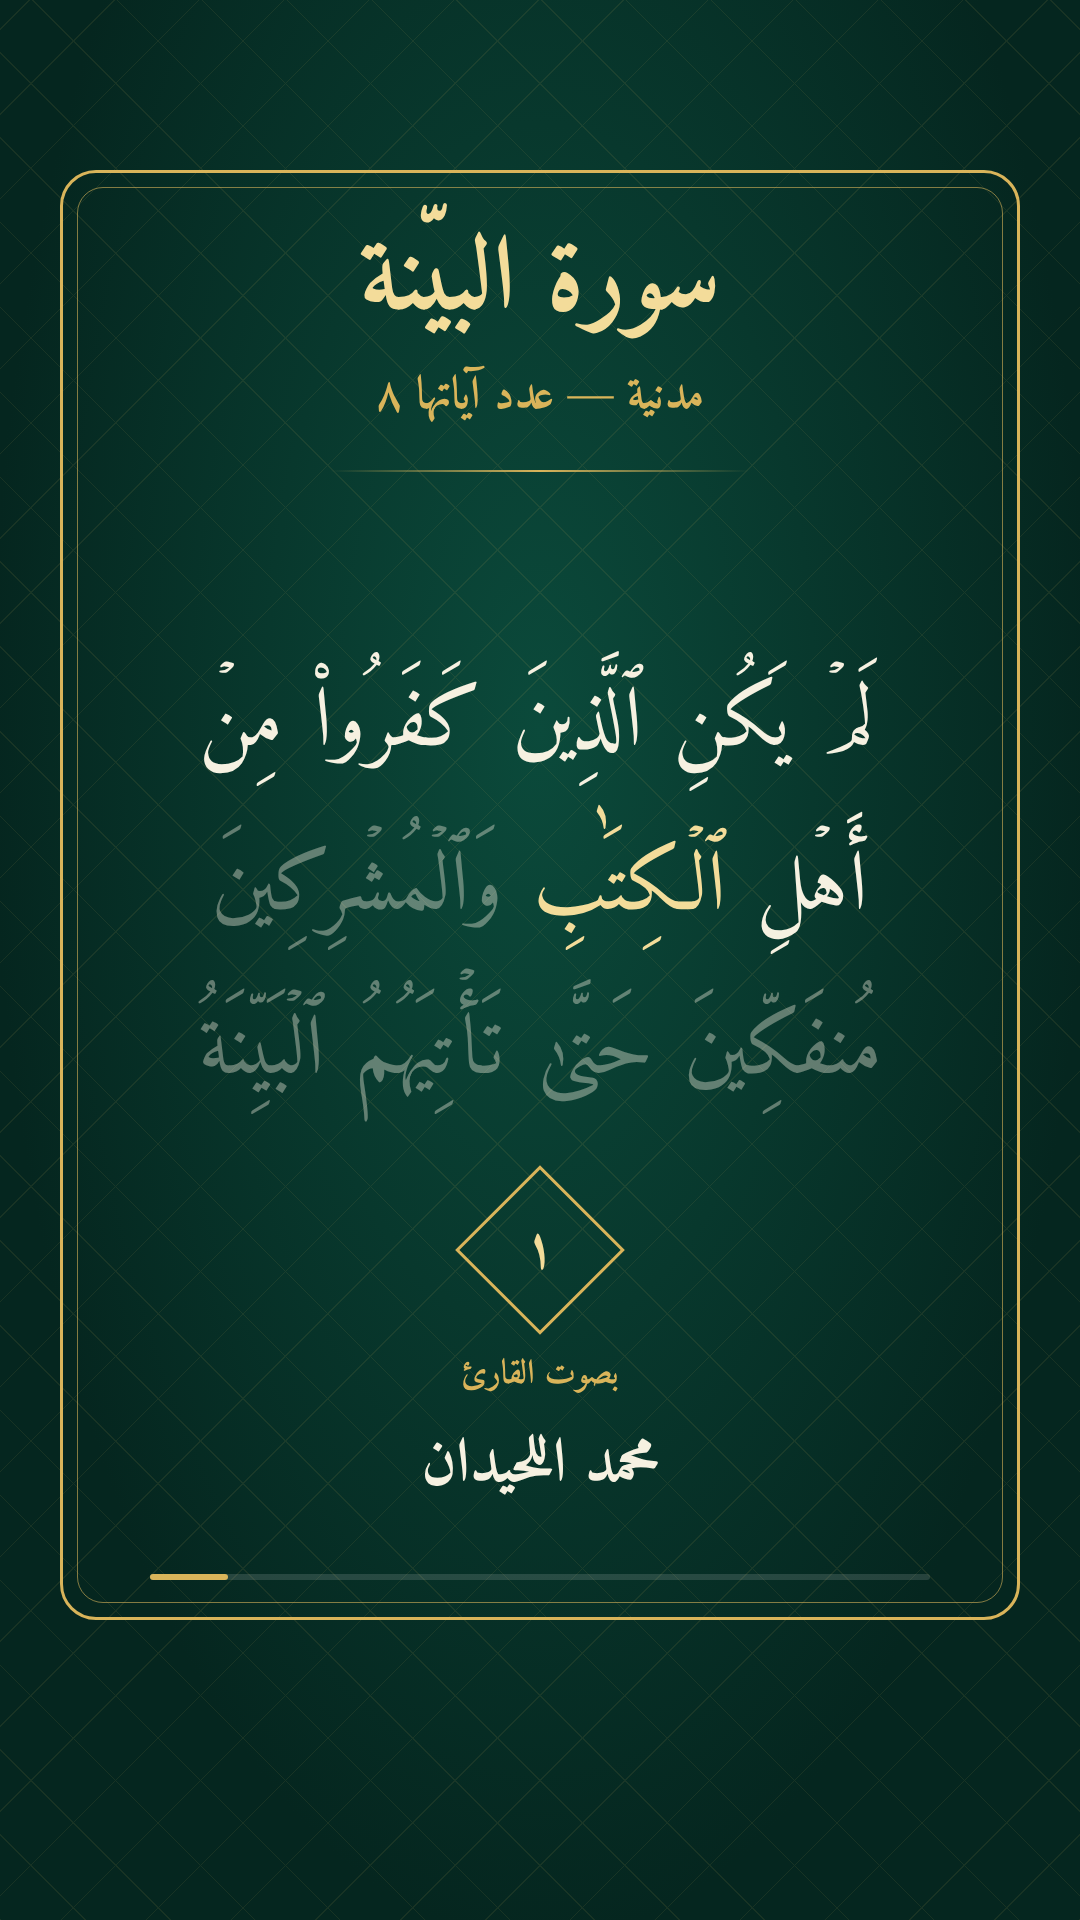
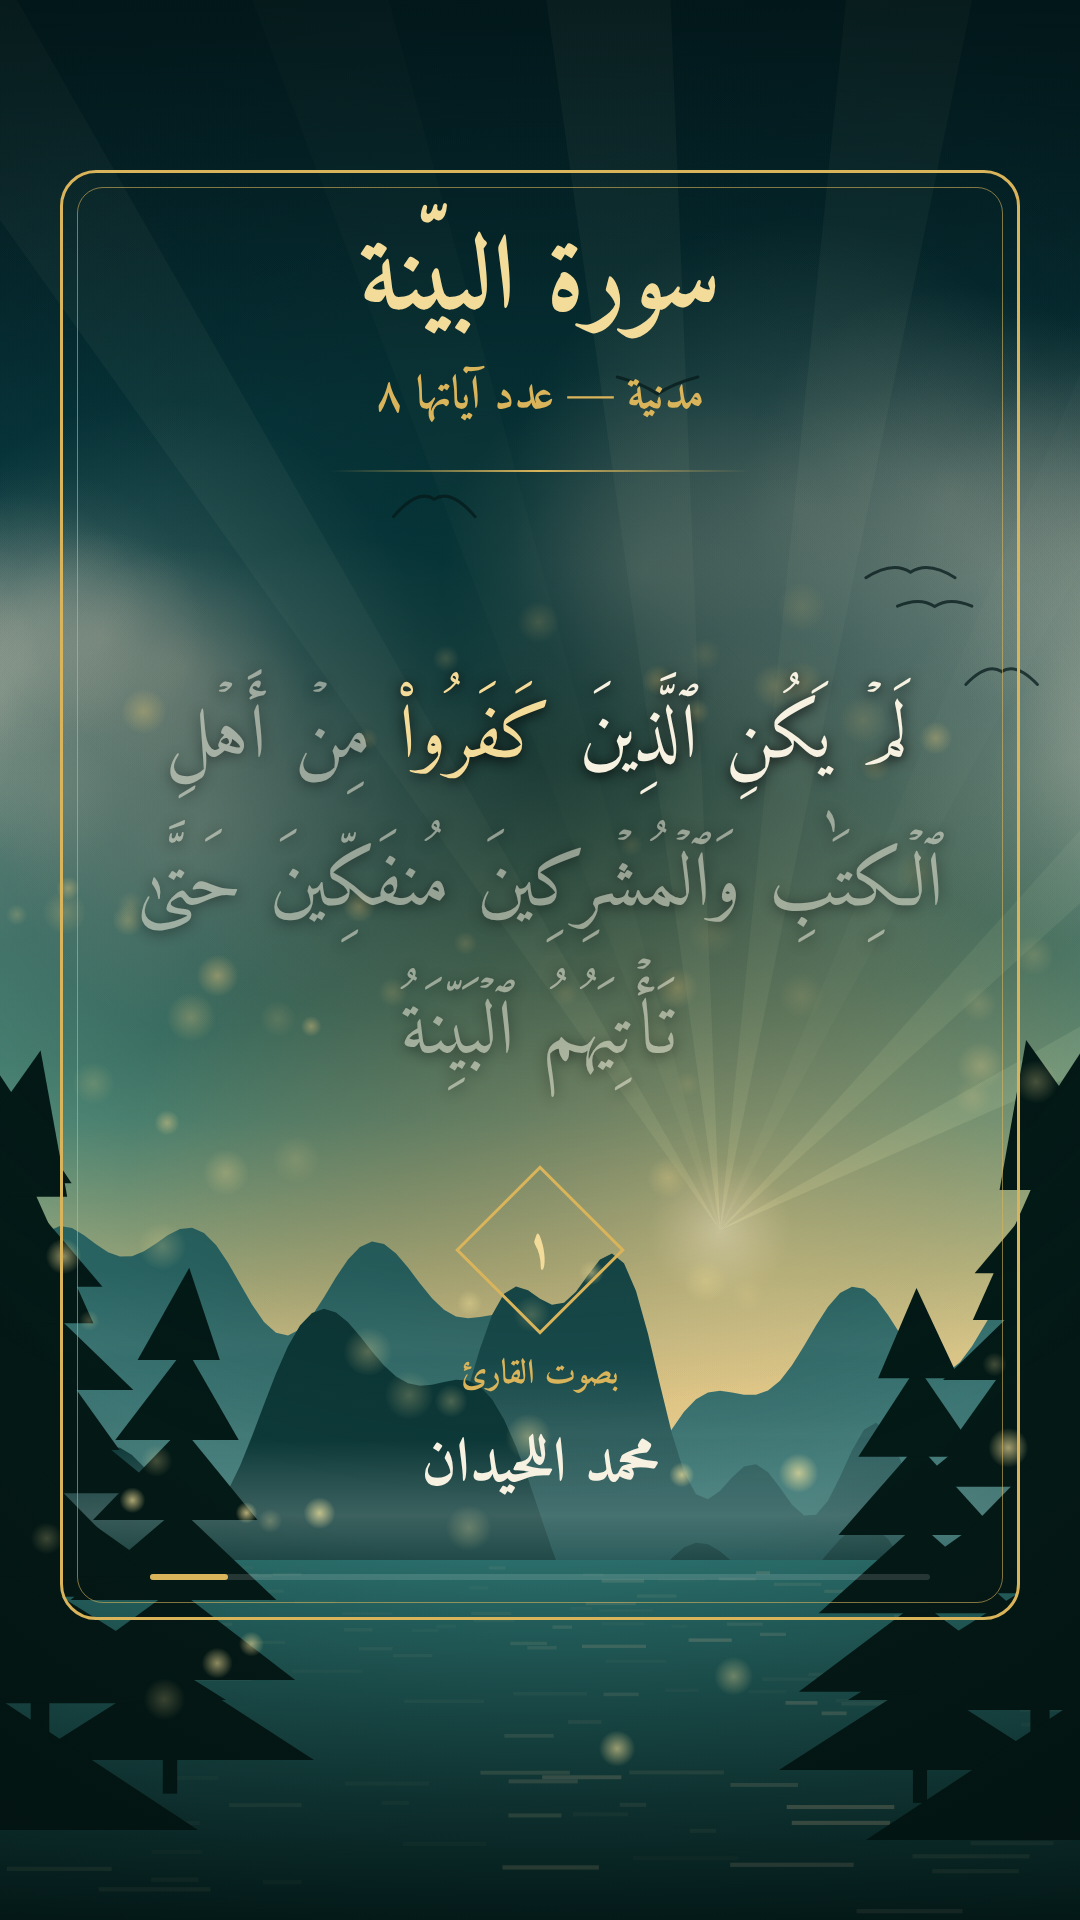
Surah Al-Bayyinah video: animated nature background, per-word timing, basmala
Claude-Session: https://claude.ai/code/session_018nkkgVh1zoVbZKXc2uWzRm

diff --git a/bayyinah-luhaidan/design.html b/bayyinah-luhaidan/design.html
@@ -4,10 +4,9 @@
 @font-face{font-family:T;src:url(fonts/amiri-arabic-700-normal.woff2);font-weight:700}
 :root{--bg1:#05261f;--bg2:#0b4a3b;--gold:#d9b45a;--gold2:#f3dc9a;--ink:#f6f1e1}
 *{margin:0;box-sizing:border-box}
-body{width:1080px;height:1920px;overflow:hidden;background:radial-gradient(ellipse at 50% 38%,var(--bg2),var(--bg1) 72%);font-family:T;color:var(--ink);position:relative}
-.pat{position:absolute;inset:0;opacity:.09;background:
- repeating-linear-gradient(45deg,var(--gold) 0 1px,transparent 1px 60px),
- repeating-linear-gradient(-45deg,var(--gold) 0 1px,transparent 1px 60px)}
+body{width:1080px;height:1920px;overflow:hidden;background:var(--bg1);font-family:T;color:var(--ink);position:relative}
+#bg{position:absolute;inset:0}
+.scrim{position:absolute;inset:0;background:radial-gradient(ellipse 90% 30% at 50% 40%,rgba(2,22,18,.78),rgba(2,22,18,0) 100%),linear-gradient(rgba(2,22,18,.45),rgba(2,22,18,0) 30%)}
 .frame{position:absolute;left:60px;right:60px;top:170px;bottom:300px;border:3px solid var(--gold);border-radius:36px}
 .frame:after{content:"";position:absolute;inset:14px;border:1px solid var(--gold);border-radius:26px;opacity:.6}
 .title{position:absolute;top:215px;width:100%;text-align:center}
@@ -15,8 +14,8 @@ body{width:1080px;height:1920px;overflow:hidden;background:radial-gradient(ellip
 .title i{display:block;font-style:normal;font-size:46px;color:var(--gold);margin-top:6px}
 .rule{position:absolute;top:470px;left:50%;width:420px;margin-left:-210px;height:2px;background:linear-gradient(90deg,transparent,var(--gold),transparent)}
 #v{position:absolute;left:130px;right:130px;top:540px;height:640px;display:flex;align-items:center;justify-content:center;text-align:center;font-family:Q;font-size:84px;line-height:1.95;word-spacing:6px}
-#v span{opacity:.38;transition:none}
-#v span.on{opacity:1;color:var(--gold2)}
+#v span{opacity:.62;text-shadow:0 2px 16px #000,0 0 6px #000}
+#v span.on{opacity:1;color:var(--gold2);text-shadow:0 0 0 #000,0 2px 14px #000}
 #v span.done{opacity:1}
 .num{position:absolute;top:1190px;left:50%;width:120px;height:120px;margin-left:-60px;border:3px solid var(--gold);transform:rotate(45deg);display:flex;align-items:center;justify-content:center}
 .num em{transform:rotate(-45deg);font-style:normal;font-size:54px;color:var(--gold2)}
@@ -25,27 +24,72 @@ body{width:1080px;height:1920px;overflow:hidden;background:radial-gradient(ellip
 .bar{position:absolute;left:150px;right:150px;bottom:340px;height:6px;background:#ffffff22;border-radius:3px;direction:ltr}
 .bar div{height:100%;width:0;background:var(--gold);border-radius:3px}
 </style>
-<div class="pat"></div><div class="frame"></div>
+<canvas id="bg" width="1080" height="1920"></canvas><div class="scrim"></div><div class="frame"></div>
 <div class="title"><b>سورة البيّنة</b><i>مدنية — عدد آياتها ٨</i></div><div class="rule"></div>
 <div id="v"><p id="t"></p></div>
 <div class="num"><em id="n"></em></div>
 <div class="rec"><small>بصوت القارئ</small>محمد اللحيدان</div>
 <div class="bar"><div id="b"></div></div>
 <script>
-let S;
+let S,V;
 const AR=n=>String(n).replace(/\d/g,d=>'٠١٢٣٤٥٦٧٨٩'[d]);
-async function init(){S=await (await fetch('surah98.json')).json();await document.fonts.ready;window.ready=true}
-// ayah index, progress 0..1 inside ayah, total progress 0..1
-function setState(i,p,tot){
-  const w=S.verses[i].split(' ');
-  const wt=w.map(x=>x.replace(/[ً-ٰٟۖ-ۭ]/g,'').length+1);
-  const sum=wt.reduce((a,b)=>a+b,0);let acc=0,h='';
-  w.forEach((x,k)=>{const s=acc/sum;acc+=wt[k];const e=acc/sum;
-    h+=`<span class="${p>=e?'done':p>=s?'on':''}">${x}</span> `});
-  document.getElementById('t').innerHTML=h;
-  const L=S.verses[i].length;document.getElementById('v').style.fontSize=(L<70?84:L<130?76:L<170?68:62)+'px';
-  document.getElementById('n').textContent=AR(i+1);
+async function init(){S=await (await fetch('surah98.json')).json();const b=await (await fetch('basmala.json')).json();
+  V=[b.text,...S.verses];await document.fonts.ready;window.ready=true}
+// i: 0=البسملة، 1..8 الآيات · w: رقم الكلمة الجارية (-1 قبل أول كلمة، 99 بعد آخر كلمة)
+let last=-1;
+function setState(i,w,tot,t){
+  if(i!==last){last=i;const L=V[i].length;
+    document.getElementById('v').style.fontSize=(i===0?84:L<70?84:L<130?76:L<170?68:62)+'px';
+    document.getElementById('t').innerHTML=V[i].split(' ').map(x=>`<span>${x}</span>`).join(' ');
+    document.getElementById('n').textContent=i===0?'۞':AR(i)}
+  document.querySelectorAll('#t span').forEach((el,k)=>{el.className=k===w?'on':k<w?'done':''});
   document.getElementById('b').style.width=(tot*100)+'%';
-}
+  drawBG(t)}
+function R(n){let x=Math.sin(n*127.1+311.7)*43758.5453;return x-Math.floor(x)}
+function drawBG(t){
+  const c=document.getElementById('bg').getContext('2d'),W=1080,Hh=1920;
+  let g=c.createLinearGradient(0,0,0,1400);g.addColorStop(0,'#04202b');g.addColorStop(.45,'#0c5159');g.addColorStop(.8,'#5c9a86');g.addColorStop(1,'#e8c880');
+  c.fillStyle=g;c.fillRect(0,0,W,Hh);
+  // شمس بتوهج يتنفس
+  const sx=720,sy=1230,pr=1+.04*Math.sin(t*.8);
+  g=c.createRadialGradient(sx,sy,0,sx,sy,620*pr);g.addColorStop(0,'rgba(255,240,190,.95)');g.addColorStop(.12,'rgba(255,224,150,.55)');g.addColorStop(1,'rgba(255,200,120,0)');c.fillStyle=g;c.fillRect(0,500,W,1200);
+  // أشعة
+  c.save();c.globalCompositeOperation='lighter';
+  for(let k=0;k<7;k++){const a=-2.2+k*.28+.06*Math.sin(t*.25+k);c.fillStyle=`rgba(255,226,160,${.05+.025*Math.sin(t*.5+k*2)})`;
+    c.beginPath();c.moveTo(sx,sy);c.lineTo(sx+Math.cos(a-.05)*2400,sy+Math.sin(a-.05)*2400);c.lineTo(sx+Math.cos(a+.05)*2400,sy+Math.sin(a+.05)*2400);c.fill()}
+  c.restore();
+  // غيوم
+  for(let k=0;k<8;k++){const sp=8+R(k)*14,x0=R(k+9)*(W+900),cx=((x0+t*sp)%(W+900))-450,cy=180+R(k+3)*620,sc=.7+R(k+5)*1.1;
+    for(let m=0;m<5;m++){const ox=(m-2)*90*sc,oy=Math.sin(m*1.7+k)*26*sc,r=(110+R(k*7+m)*70)*sc;
+      const gg=c.createRadialGradient(cx+ox,cy+oy,0,cx+ox,cy+oy,r);gg.addColorStop(0,`rgba(255,240,215,${.2+.1*R(k)})`);gg.addColorStop(1,'rgba(255,240,215,0)');c.fillStyle=gg;c.fillRect(cx+ox-r,cy+oy-r,2*r,2*r)}}
+  // طيور
+  c.strokeStyle='rgba(10,30,32,.75)';c.lineWidth=3;c.lineCap='round';
+  for(let k=0;k<6;k++){const bx=((R(k+40)*1400+t*(55+R(k)*25))%1500)-200,by=300+R(k+60)*420+Math.sin(t*.9+k)*30,fl=Math.sin(t*7+k*2)*14,sz=.8+R(k+2)*.7;
+    c.beginPath();c.moveTo(bx-30*sz,by-fl*sz);c.quadraticCurveTo(bx-12*sz,by-8*sz,bx,by);c.quadraticCurveTo(bx+12*sz,by-8*sz,bx+30*sz,by-fl*sz);c.stroke()}
+  // جبال بثلاث طبقات + ضباب
+  const lay=[[1330,170,'#2d6b6a',.0035,.18],[1420,210,'#1b4f50',.0045,.30],[1500,230,'#0e3a3a',.0030,.5]];
+  lay.forEach(([y0,amp,col,f,mist],li)=>{
+    c.fillStyle=col;c.beginPath();c.moveTo(0,1920);
+    for(let x=0;x<=W;x+=12){const h=amp*(.5*Math.sin(x*f*2+li*3)+.3*Math.sin(x*f*5+li)+.2*Math.sin(x*f*11+li*2));c.lineTo(x,y0-h)}
+    c.lineTo(W,1920);c.fill();
+    const mg=c.createLinearGradient(0,y0-60,0,y0+90);mg.addColorStop(0,'rgba(220,235,225,0)');mg.addColorStop(.5,`rgba(220,235,225,${mist*.45})`);mg.addColorStop(1,'rgba(220,235,225,0)');
+    c.fillStyle=mg;const dx=(t*(6+li*4))%W;c.fillRect(0,y0-60,W,150)});
+  // بحيرة
+  const ly=1560;g=c.createLinearGradient(0,ly,0,1920);g.addColorStop(0,'#2a6d6a');g.addColorStop(1,'#04201f');c.fillStyle=g;c.fillRect(0,ly,W,Hh-ly);
+  for(let k=0;k<120;k++){const y=ly+6+Math.pow(R(k+100),1.6)*(Hh-ly-10),amp=.3+.7*(y-ly)/(Hh-ly),
+      x=(R(k+200)*W+Math.sin(t*.6+k)*30)%W,wd=(30+R(k+300)*110)*amp,near=Math.max(0,1-Math.abs(x-sx)/260);
+    c.fillStyle=`rgba(255,${225-near*20|0},${170},${(.06+.35*near)*(.5+.5*Math.sin(t*2.2+k*1.3))*amp+.03})`;c.fillRect(x-wd/2,y,wd,2.5+amp*2)}
+  // أشجار صنوبر على الجانبين تتمايل
+  function pine(x,y,h,ph){const sw=Math.sin(t*.9+ph)*h*.018;c.fillStyle='#041a17';
+    for(let l=0;l<6;l++){const ly2=y-h*(l/6),wd=h*.30*(1-l/7),off=sw*(l/6)*3;
+      c.beginPath();c.moveTo(x+off-wd,ly2);c.lineTo(x+off+sw*(l+1)/2,ly2-h/5.2);c.lineTo(x+off+wd,ly2);c.fill()}
+    c.fillRect(x-h*.015,y,h*.03,h*.07)}
+  [[40,1700,620,0],[170,1760,480,1.3],[-30,1830,760,2.1],[1040,1700,640,3.2],[920,1770,470,4.1],[1100,1840,780,5.3]].forEach(a=>pine(...a));
+  // يراعات / لقاح
+  for(let k=0;k<70;k++){const px=(R(k+500)*W+Math.sin(t*.35+k*3)*60+t*(2+R(k)*5))%W,py=700+R(k+600)*1100+Math.cos(t*.3+k*2)*40-((t*(5+R(k+1)*8))%200),
+      a=.25+.55*Math.max(0,Math.sin(t*1.4+k*2.1)),r=2+R(k+700)*3;
+    const gg=c.createRadialGradient(px,py,0,px,py,r*5);gg.addColorStop(0,`rgba(255,235,160,${a})`);gg.addColorStop(1,'rgba(255,235,160,0)');c.fillStyle=gg;c.fillRect(px-r*5,py-r*5,r*10,r*10)}
+  // تعتيم خفيف للأطراف
+  g=c.createRadialGradient(540,960,600,540,960,1300);g.addColorStop(0,'rgba(0,0,0,0)');g.addColorStop(1,'rgba(0,10,8,.45)');c.fillStyle=g;c.fillRect(0,0,W,Hh)}
 init();
 </script></html>

diff --git a/bayyinah-luhaidan/align.py b/bayyinah-luhaidan/align.py
@@ -1,0 +1,53 @@
+#!/usr/bin/env python3
+"""align.py audio.mp3  -> words.json  (توقيت كل كلمة من غلاف الطاقة الصوتية + أوزان مقاطع الكلمات)
+المدخل: timings.json = {"basmala":[s,e],"ayahs":[[s,e]x8]}  (حدود تقريبية للأقسام)"""
+import sys,json,re,subprocess,wave,tempfile,os,numpy as np
+audio=sys.argv[1];T=json.load(open('timings.json'))
+wav=tempfile.mktemp(suffix='.wav');subprocess.run(['ffmpeg','-v','error','-y','-i',audio,'-ac','1','-ar','8000',wav],check=True)
+w=wave.open(wav);x=np.frombuffer(w.readframes(w.getnframes()),dtype=np.int16).astype(float);sr=8000;os.remove(wav)
+H=.01;hop=int(H*sr)
+e=20*np.log10(np.sqrt([np.mean(x[i:i+hop*2]**2) for i in range(0,len(x)-hop*2,hop)])+1)
+e=np.convolve(e,np.ones(5)/5,'same')
+S=json.load(open('surah98.json'));B=json.load(open('basmala.json'))['text']
+def weight(word):
+    syl=len(re.findall('[ً-َُِٰ]',word))                    # حركات (مقاطع)
+    madd=len(re.findall('[َ][اى]|[ُ]و|[ِ]ي|ٰ|[اوي](?=[ءّْ])',word))
+    gem=len(re.findall('ّ',word))
+    return max(1.0,syl+0.7*madd+0.5*gem+0.3*len(re.sub('[ً-ٰٟۖ-ۭ]','',word))*0.5)
+def speech_range(s,end):
+    st=s;thr=66
+    while st<end and e[int(st/H)]<thr and st<s+1.5:st+=H
+    en=end
+    for t in np.arange(end-1.0,end+0.3,H):
+        i=int(t/H)
+        if i+15<len(e) and (e[i:i+15]<thr).all(): en=t;break
+    return st,en
+def split(text,s,end):
+    words=text.split(' ');n=len(words)
+    if n==1:return [[s,end]]
+    st,en=speech_range(s,end);wt=np.array([weight(v) for v in words]);cum=np.cumsum(wt)/wt.sum()
+    exp=st+cum[:-1]*(en-st)
+    lo,hi=int(st/H),int(en/H);seg=e[lo:hi]
+    cand=[j for j in range(3,len(seg)-3) if seg[j]<=seg[j-3:j+4].min()+1e-9]
+    cand=np.array(cand);ct=(lo+cand)*H;depth=np.array([np.median(seg[max(0,j-60):j+60])-seg[j] for j in cand])
+    sig=max(.25,.12*(en-st))
+    def cost(k,c):return ((ct[c]-exp[k])/sig)**2-0.12*depth[c]
+    K=n-1;C=len(cand)
+    if C<K:b=list(exp)
+    else:
+        D=np.full((K,C),1e9);P=np.zeros((K,C),int)
+        for c in range(C):D[0,c]=cost(0,c)
+        for k in range(1,K):
+            best=1e9;bi=-1
+            for c in range(C):
+                # min over previous c' with ct[c']<ct[c]-0.12
+                m=ct<ct[c]-0.12
+                if m.any():
+                    pi=np.argmin(np.where(m,D[k-1],1e9));D[k,c]=D[k-1,pi]+cost(k,c);P[k,c]=pi
+        c=int(np.argmin(D[K-1]));path=[c]
+        for k in range(K-1,0,-1):c=P[k,c];path.append(c)
+        b=[ct[c] for c in reversed(path)]
+    edges=[st]+[float(v) for v in b]+[en]
+    return [[round(edges[i],3),round(edges[i+1],3)] for i in range(n)]
+out={'basmala':split(B,*T['basmala']),'ayahs':[split(S['verses'][i],*T['ayahs'][i]) for i in range(8)]}
+json.dump(out,open('words.json','w'));print('words.json ok',[len(a) for a in out['ayahs']])

diff --git a/bayyinah-luhaidan/make_video.py b/bayyinah-luhaidan/make_video.py
@@ -1,20 +1,13 @@
 #!/usr/bin/env python3
 """python3 make_video.py recitation.mp3 [out.mp4] [--timings t.json]
-timings.json = [[start,end],...] لكل آية (ثوانٍ) — وإلا تُكتشف الفواصل تلقائياً من سكتات التلاوة."""
+يحتاج timings.json وwords.json (python3 align.py recitation.mp3)."""
 import sys,json,re,subprocess,os,tempfile,shutil,http.server,threading,functools
 from playwright.sync_api import sync_playwright
 HERE=os.path.dirname(os.path.abspath(__file__));FPS=24
 a=[x for x in sys.argv[1:] if not x.startswith('--')];audio=a[0];out=a[1] if len(a)>1 else 'bayyinah-luhaidan.mp4'
 dur=float(subprocess.check_output(['ffprobe','-v','error','-show_entries','format=duration','-of','csv=p=0',audio]))
-if '--timings' in sys.argv: T=json.load(open(sys.argv[sys.argv.index('--timings')+1]))
-else:
-    log=subprocess.run(['ffmpeg','-i',audio,'-af','silencedetect=noise=-35dB:d=0.25','-f','null','-'],capture_output=True,text=True).stderr
-    st=[float(x) for x in re.findall(r'silence_start: ([\d.]+)',log)];en=[float(x) for x in re.findall(r'silence_end: ([\d.]+)',log)]
-    gaps=sorted(zip(st,en),key=lambda g:g[1]-g[0],reverse=True)
-    inner=[g for g in gaps if 0.5<g[0]<dur-0.5][:7]
-    if len(inner)<7: sys.exit(f'وجدت {len(inner)} فواصل فقط من 7 — مرّر --timings')
-    cuts=sorted((g[0]+g[1])/2 for g in inner);b=[0]+cuts+[dur];T=[[b[i],b[i+1]] for i in range(8)]
-    json.dump(T,open('timings.json','w'));print('timings.json',T)
+Wd=json.load(open('words.json'));SEG=[Wd['basmala']]+Wd['ayahs']   # 9 مقاطع: البسملة + 8 آيات
+TS=json.load(open('timings.json'));ST=[TS['basmala'][0]]+[x[0] for x in TS['ayahs']]
 fr=tempfile.mkdtemp()
 h=http.server.ThreadingHTTPServer(('127.0.0.1',0),functools.partial(http.server.SimpleHTTPRequestHandler,directory=HERE))
 h.RequestHandlerClass.log_message=lambda *a:None;threading.Thread(target=h.serve_forever,daemon=True).start()
@@ -23,8 +16,14 @@ with sync_playwright() as p:
     pg.goto(f'http://127.0.0.1:{h.server_port}/design.html');pg.wait_for_function('window.ready')
     n=int(dur*FPS)
     for f in range(n):
-        t=f/FPS;i=next((k for k,(s,e) in enumerate(T) if t<e),7);s,e=T[i]
-        pg.evaluate(f'setState({i},{min(1,max(0,(t-s)/(e-s)))},{t/dur})')
+        t=f/FPS;i=0
+        for k in range(9):
+            if t>=ST[k]-0.05:i=k
+        ws=SEG[i];w=-1
+        for k,(s,e) in enumerate(ws):
+            if t>=s:w=k
+        if t>=ws[-1][1]:w=99 if i>=0 and t>ws[-1][1]+0.0 else w
+        pg.evaluate(f'setState({i},{w},{t/dur},{t})')
         pg.screenshot(path=f'{fr}/{f:06d}.jpg',type='jpeg',quality=92)
 subprocess.run(['ffmpeg','-y','-v','error','-framerate',str(FPS),'-i',f'{fr}/%06d.jpg','-i',audio,'-c:v','libx264','-pix_fmt','yuv420p','-crf','20','-c:a','aac','-b:a','192k','-shortest',out],check=True)
 shutil.rmtree(fr);print('تم:',out)

diff --git a/bayyinah-luhaidan/poster.py b/bayyinah-luhaidan/poster.py
@@ -5,4 +5,4 @@ h=http.server.ThreadingHTTPServer(('127.0.0.1',0),functools.partial(http.server.
 threading.Thread(target=h.serve_forever,daemon=True).start()
 with sync_playwright() as p:
     pg=p.chromium.launch(executable_path=os.environ.get('CHROME','/opt/pw-browsers/chromium'),args=['--no-sandbox']).new_page(viewport={'width':1080,'height':1920});pg.goto(f'http://127.0.0.1:{h.server_port}/design.html');pg.wait_for_function('window.ready')
-    pg.evaluate('setState(0,0.45,0.1)');pg.screenshot(path='design-preview.png')
+    pg.evaluate('setState(1,3,0.1,6)');pg.screenshot(path='design-preview.png')
